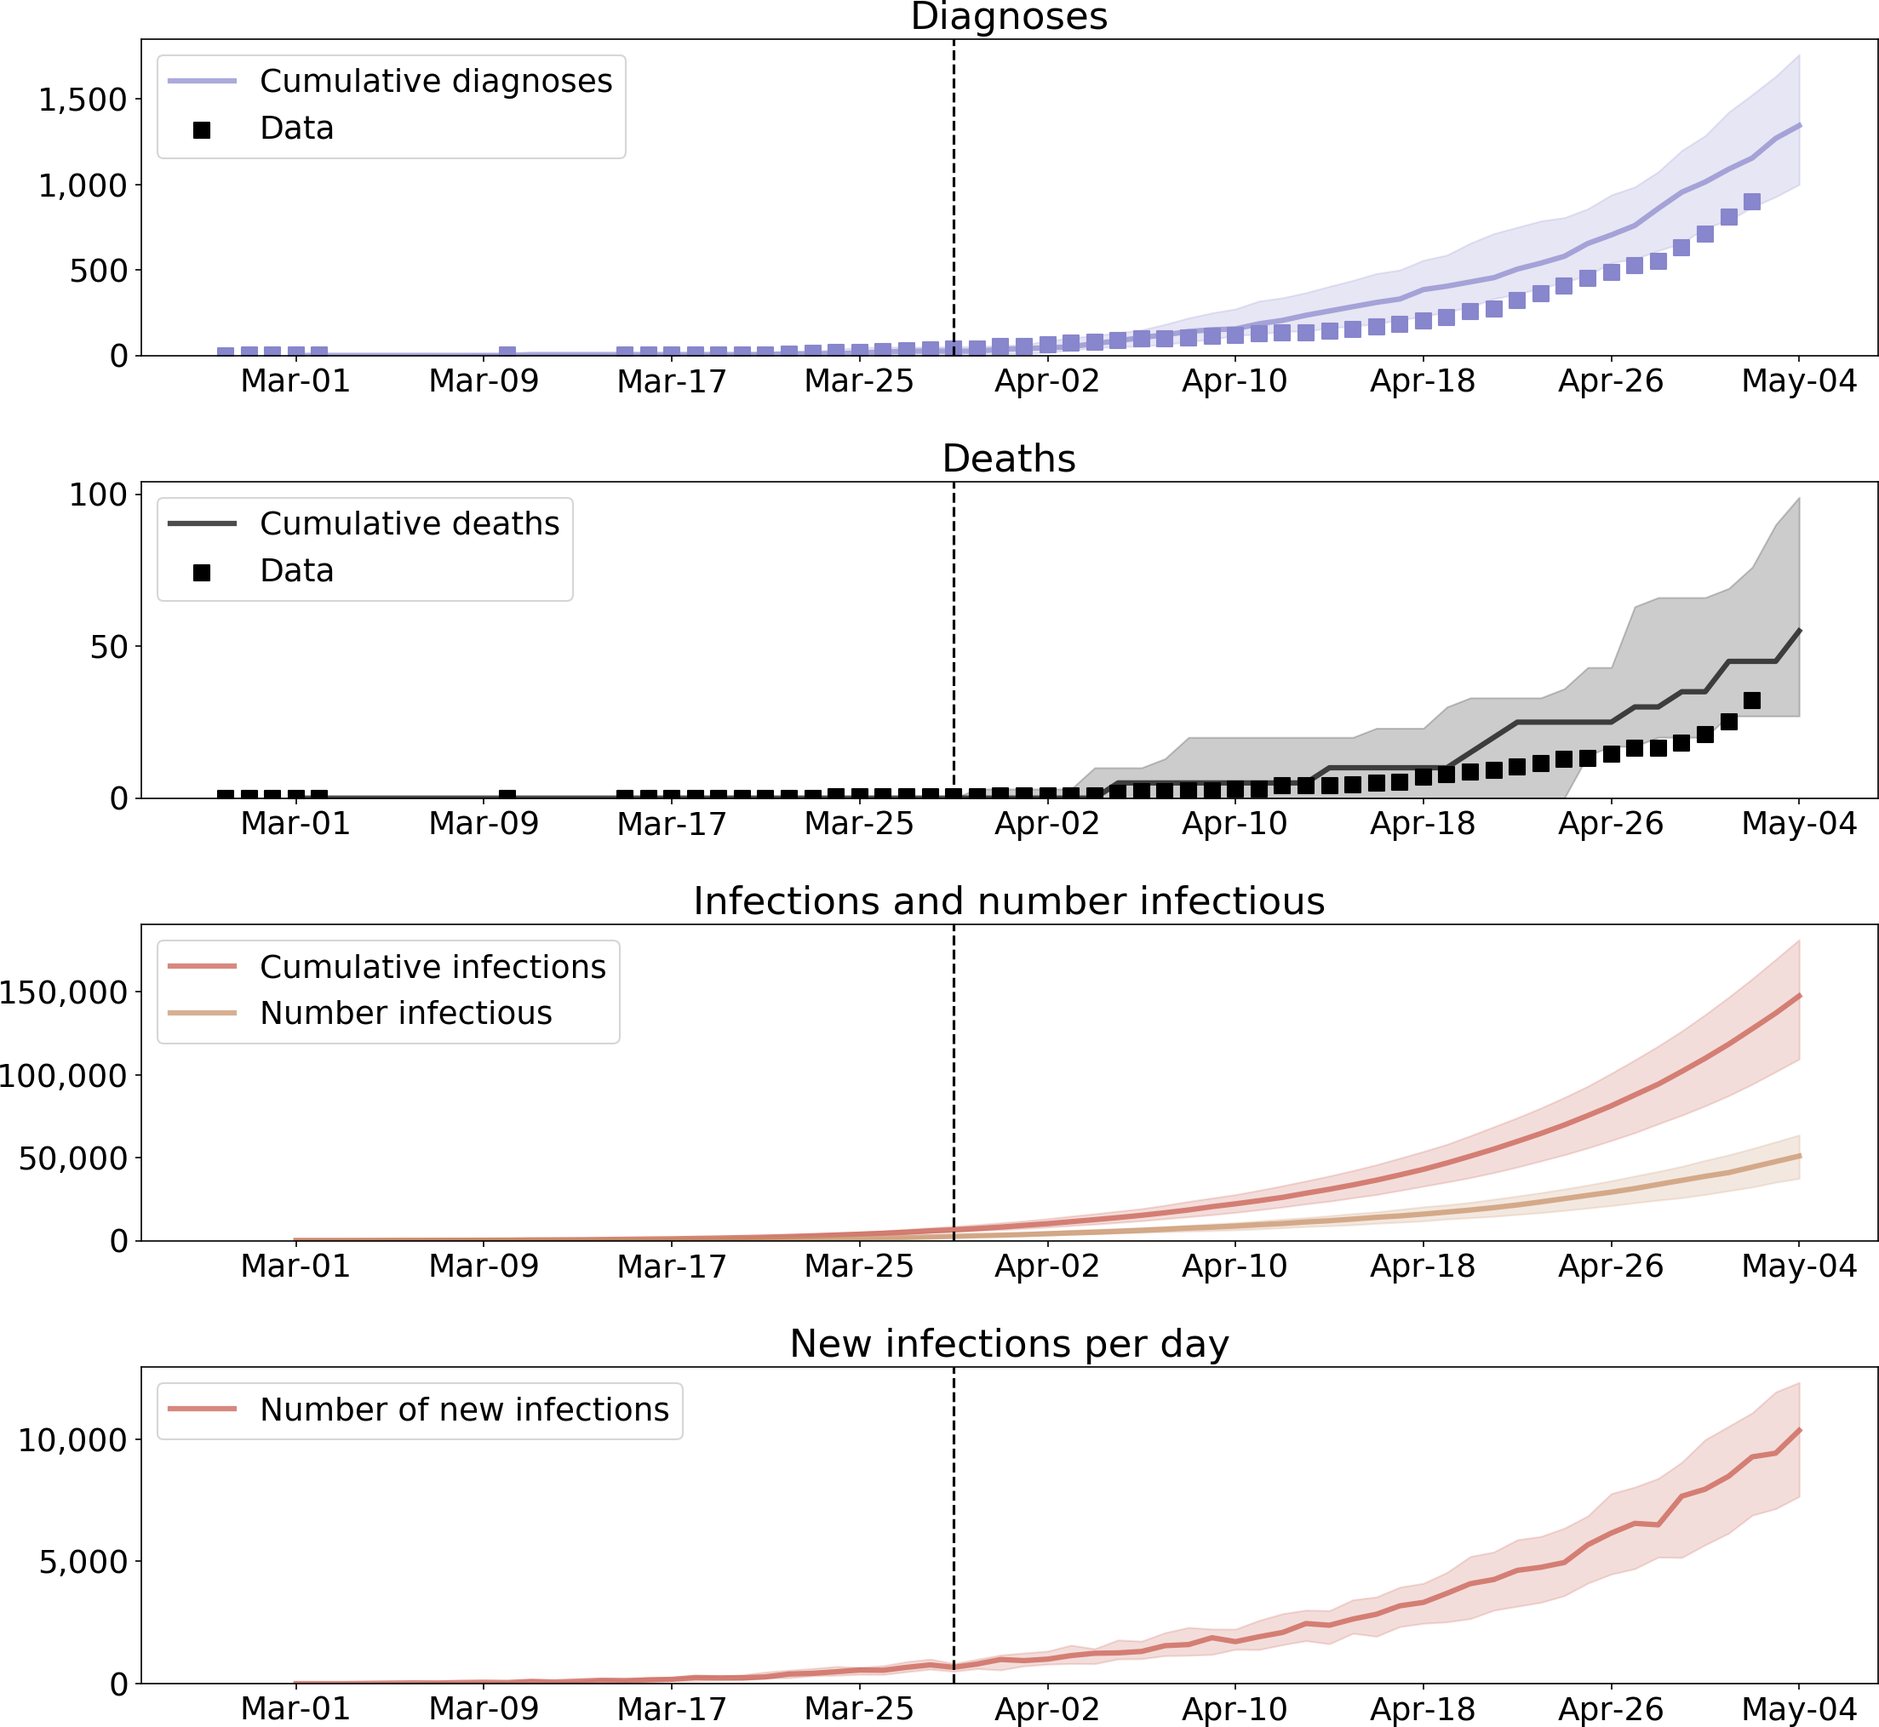
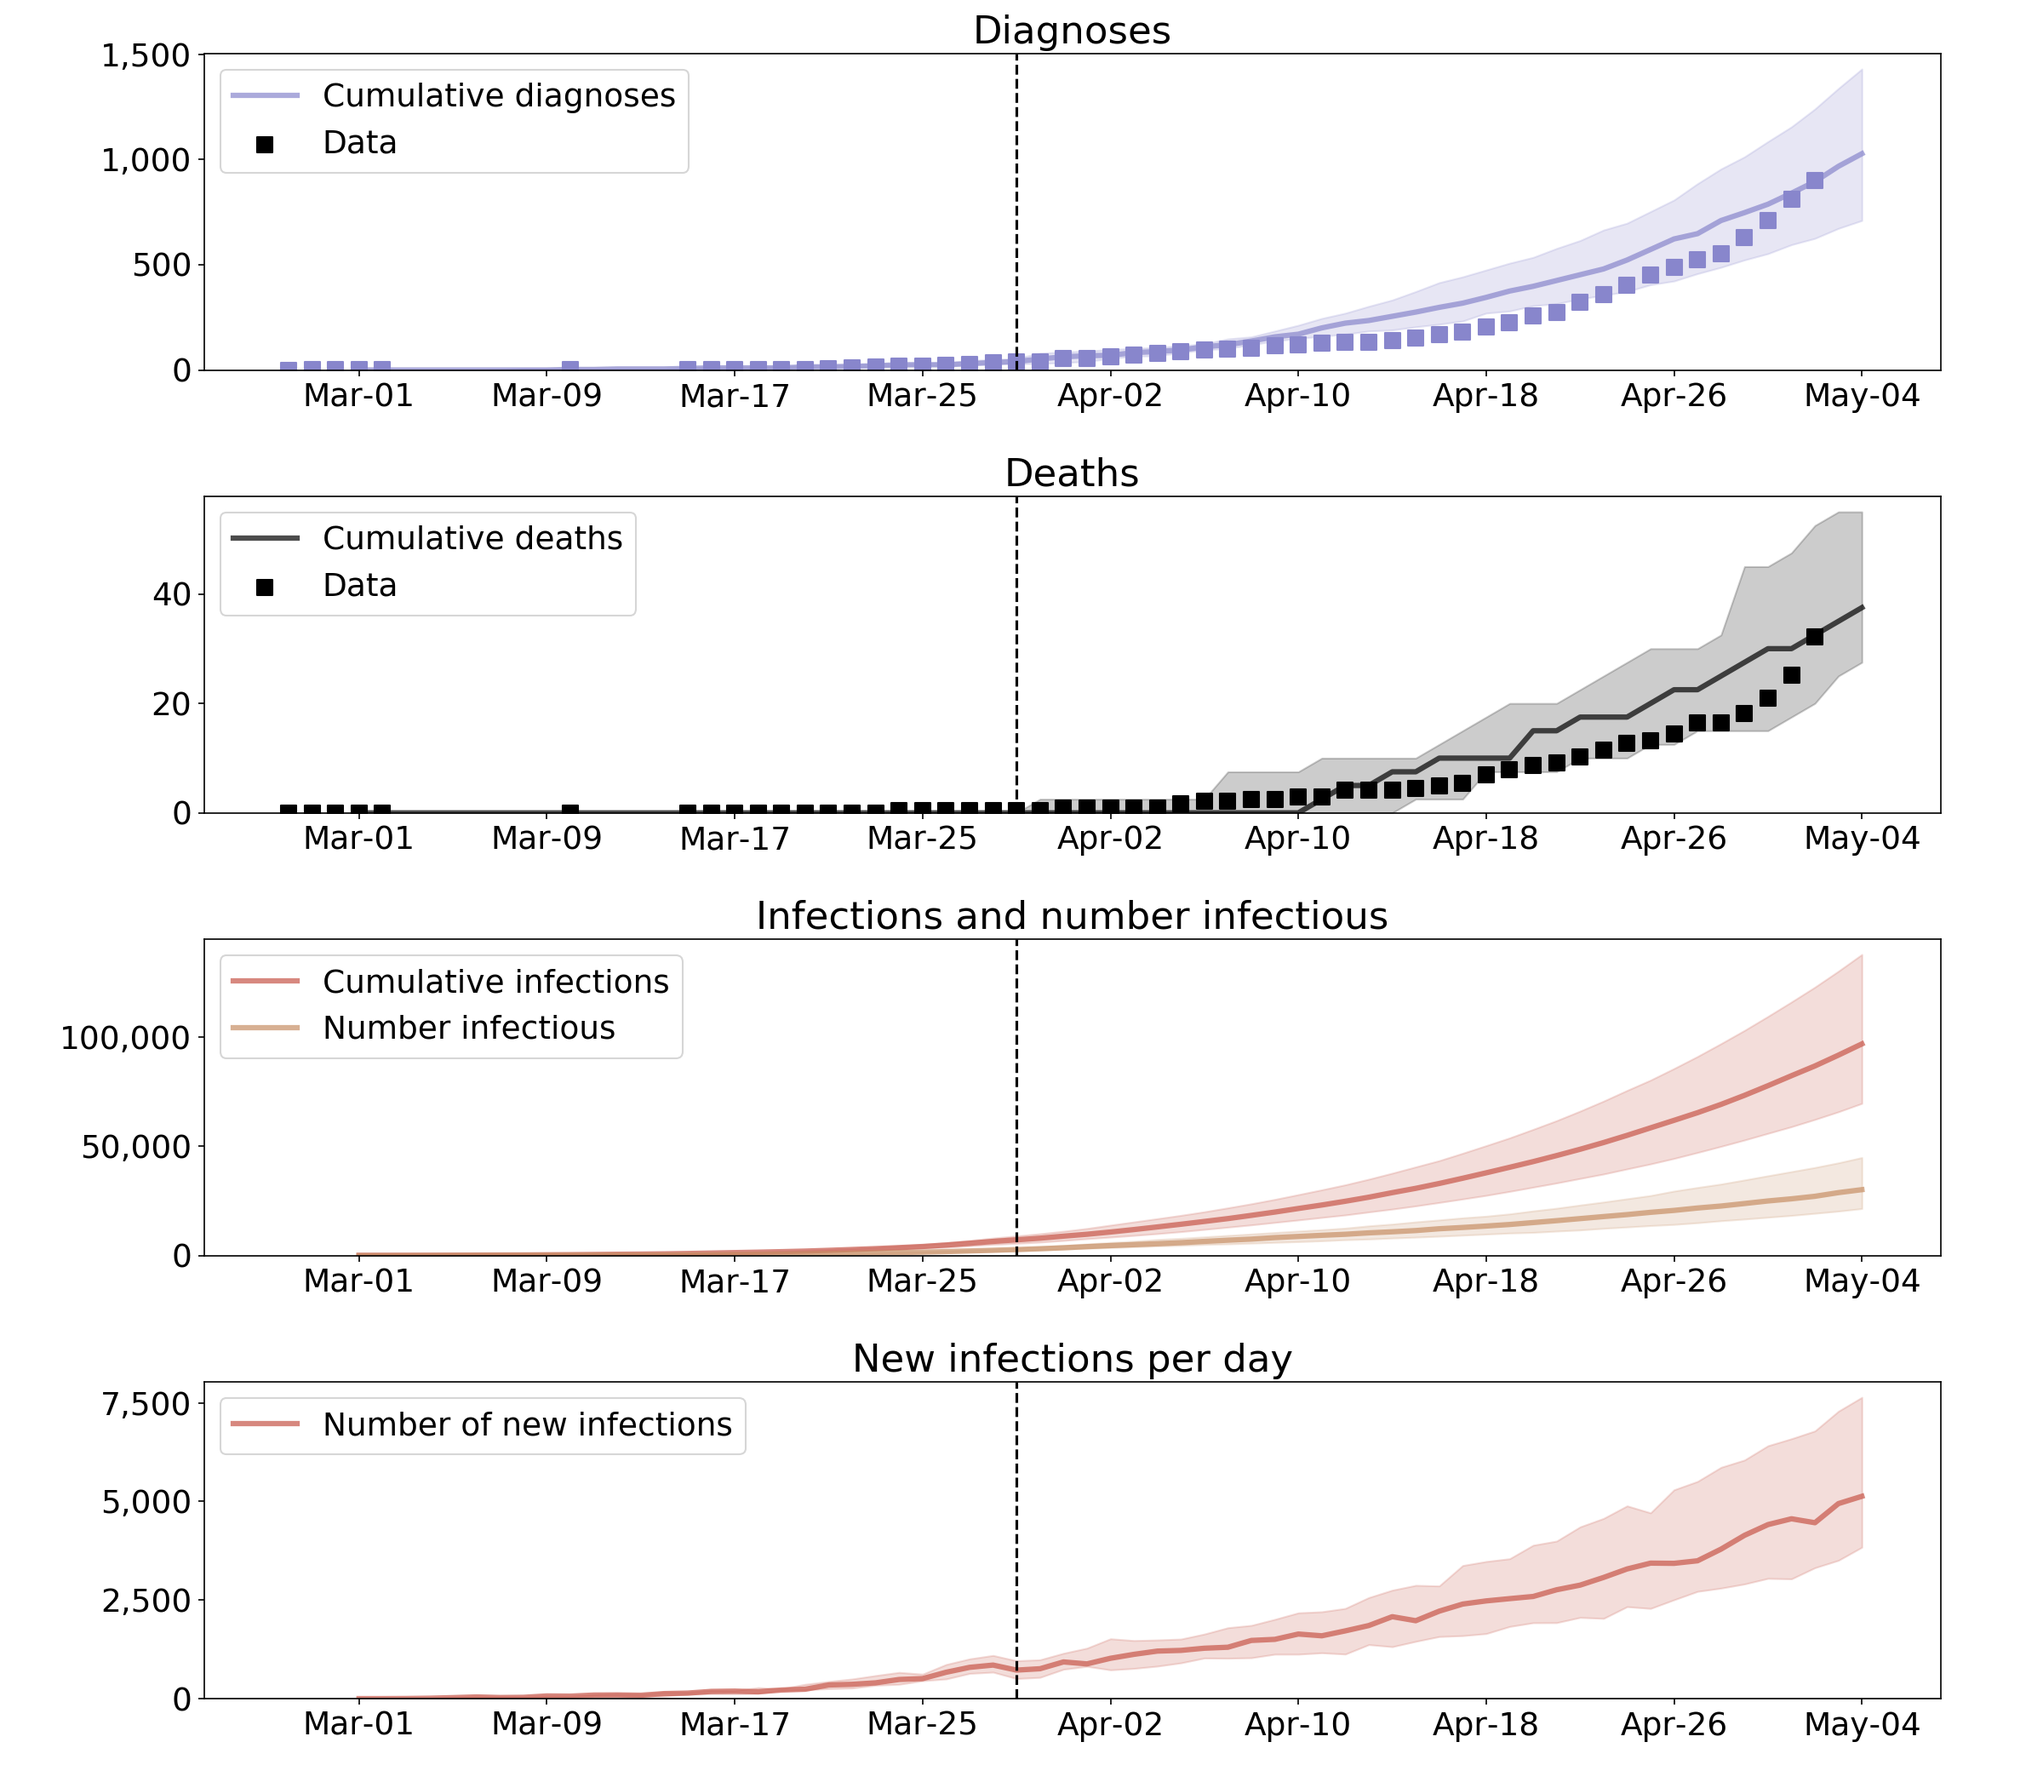
pretty good calibration

diff --git a/calibration_nigeria_may03.py b/calibration_nigeria_may03.py
@@ -30,11 +30,11 @@ if which == 'default':
     beta_change = 1.0
     beta = 0.015
 elif which == 'calibrated':
-    pop_size = 400e3
-    pop_scale = 10.0
-    pop_infected = 20
+    pop_size = 200e3
+    pop_scale = 5.0
+    pop_infected = 40
     symp_prob = 0.004
-    beta_change = 0.5
+    beta_change = 0.4
     beta = 0.013
 
 # Other parameters
@@ -64,7 +64,7 @@ for col in ['new_diagnoses', 'cum_diagnoses', 'new_deaths', 'cum_deaths']:
     sim.data.loc[:, col] = factor*sim.data.loc[:, col]
 
 msim = cv.MultiSim(base_sim=sim)
-msim.run(n_runs=8)
+msim.run(n_runs=6, noise=0.05)
 msim.reduce()
 sim = msim.base_sim
 
